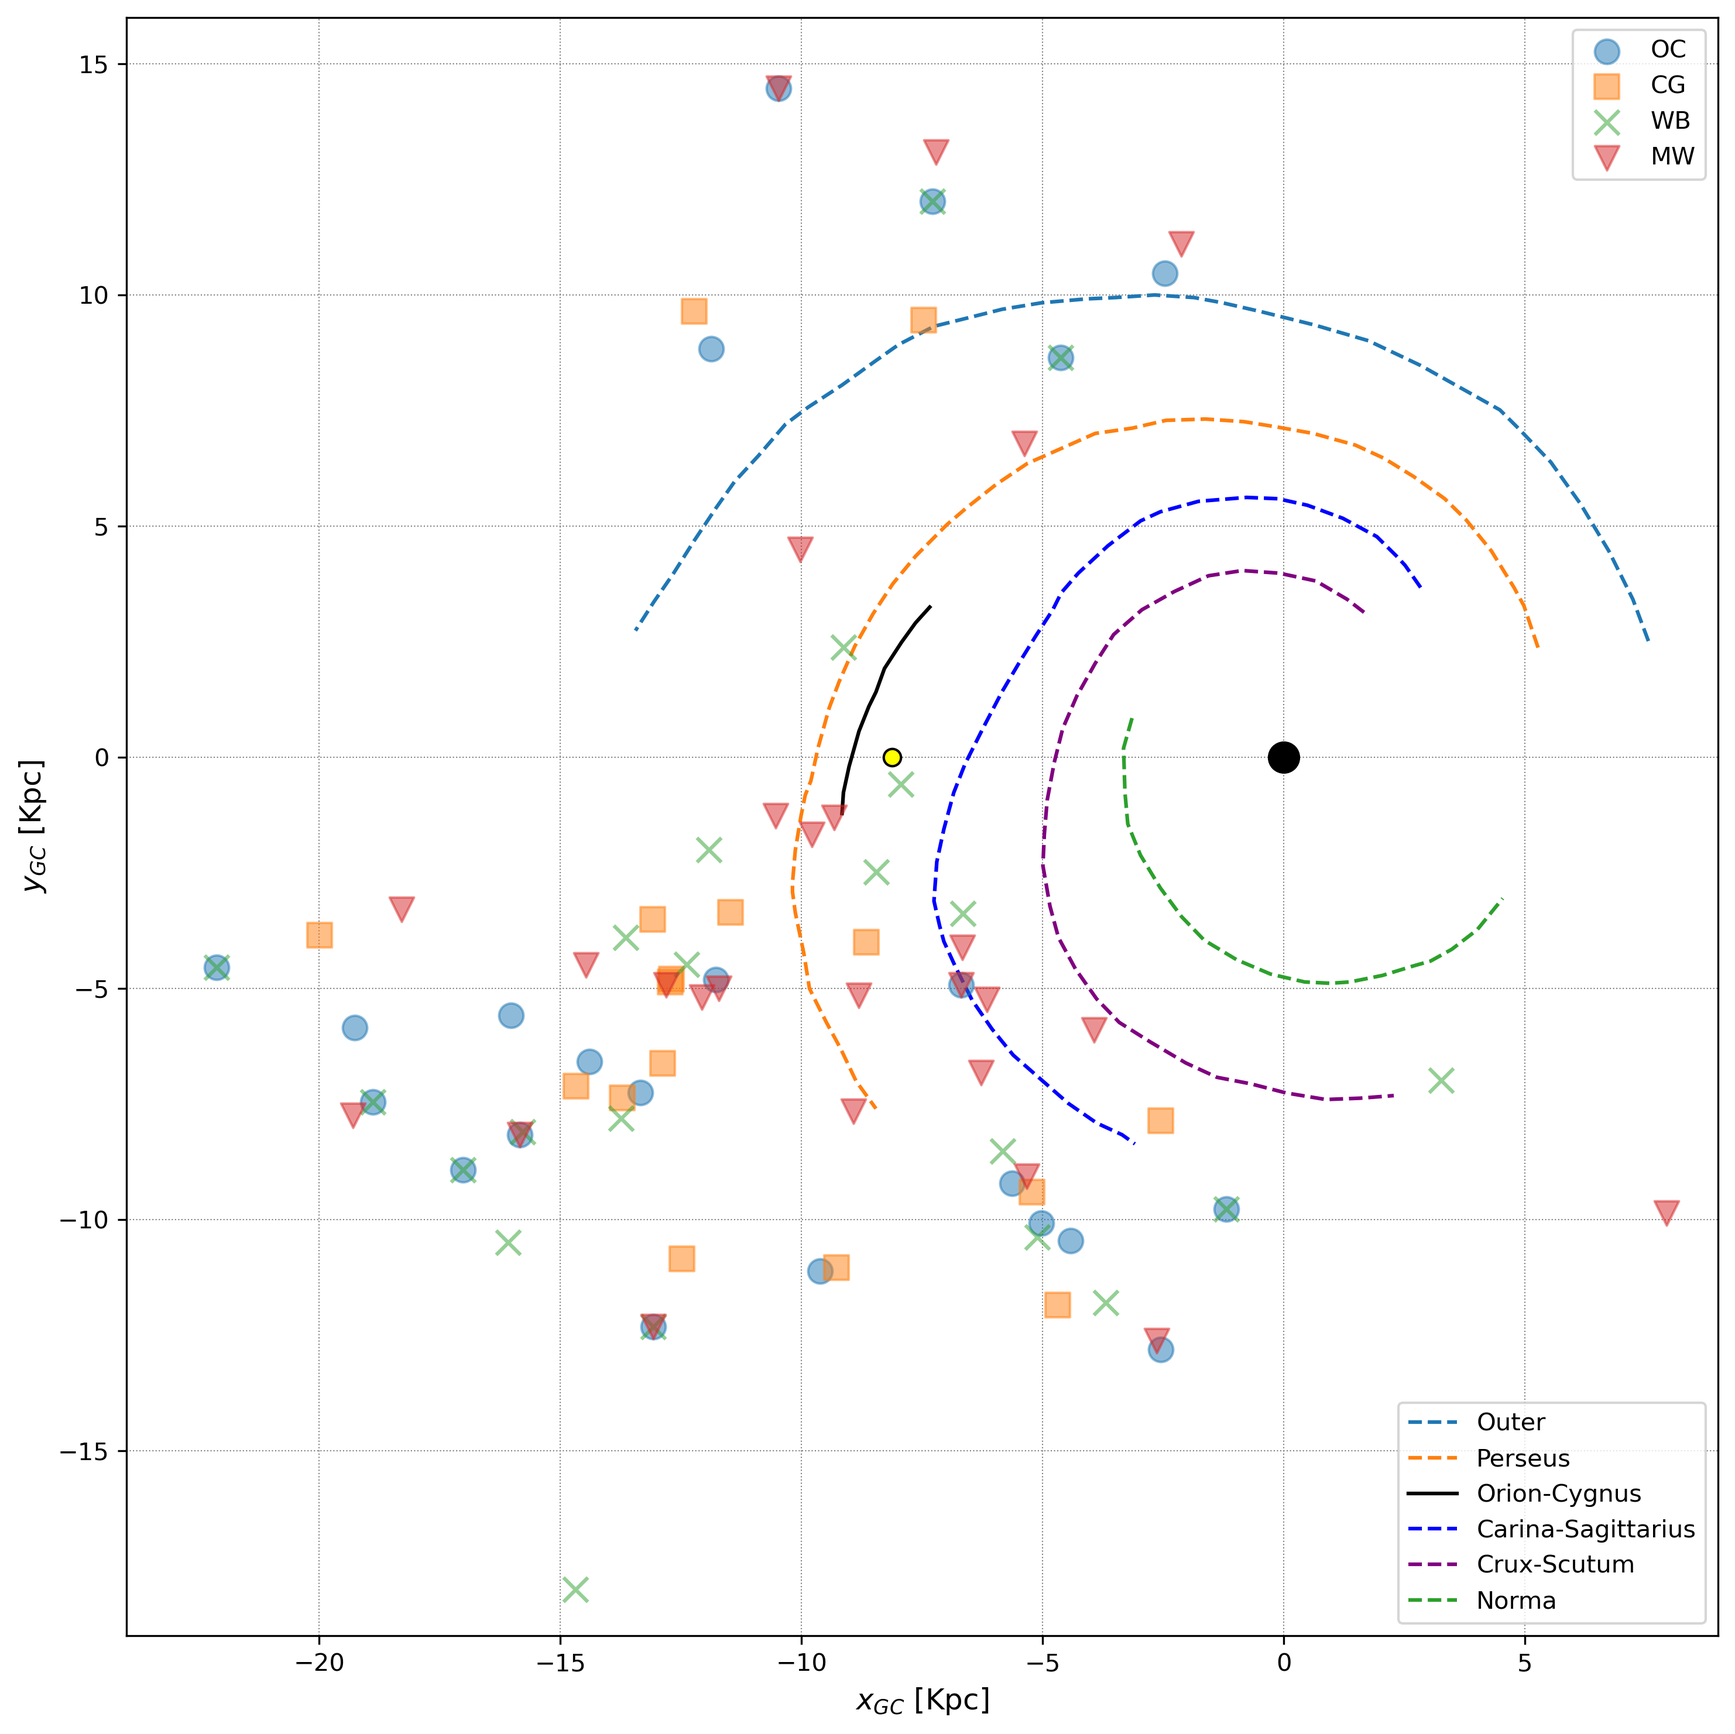
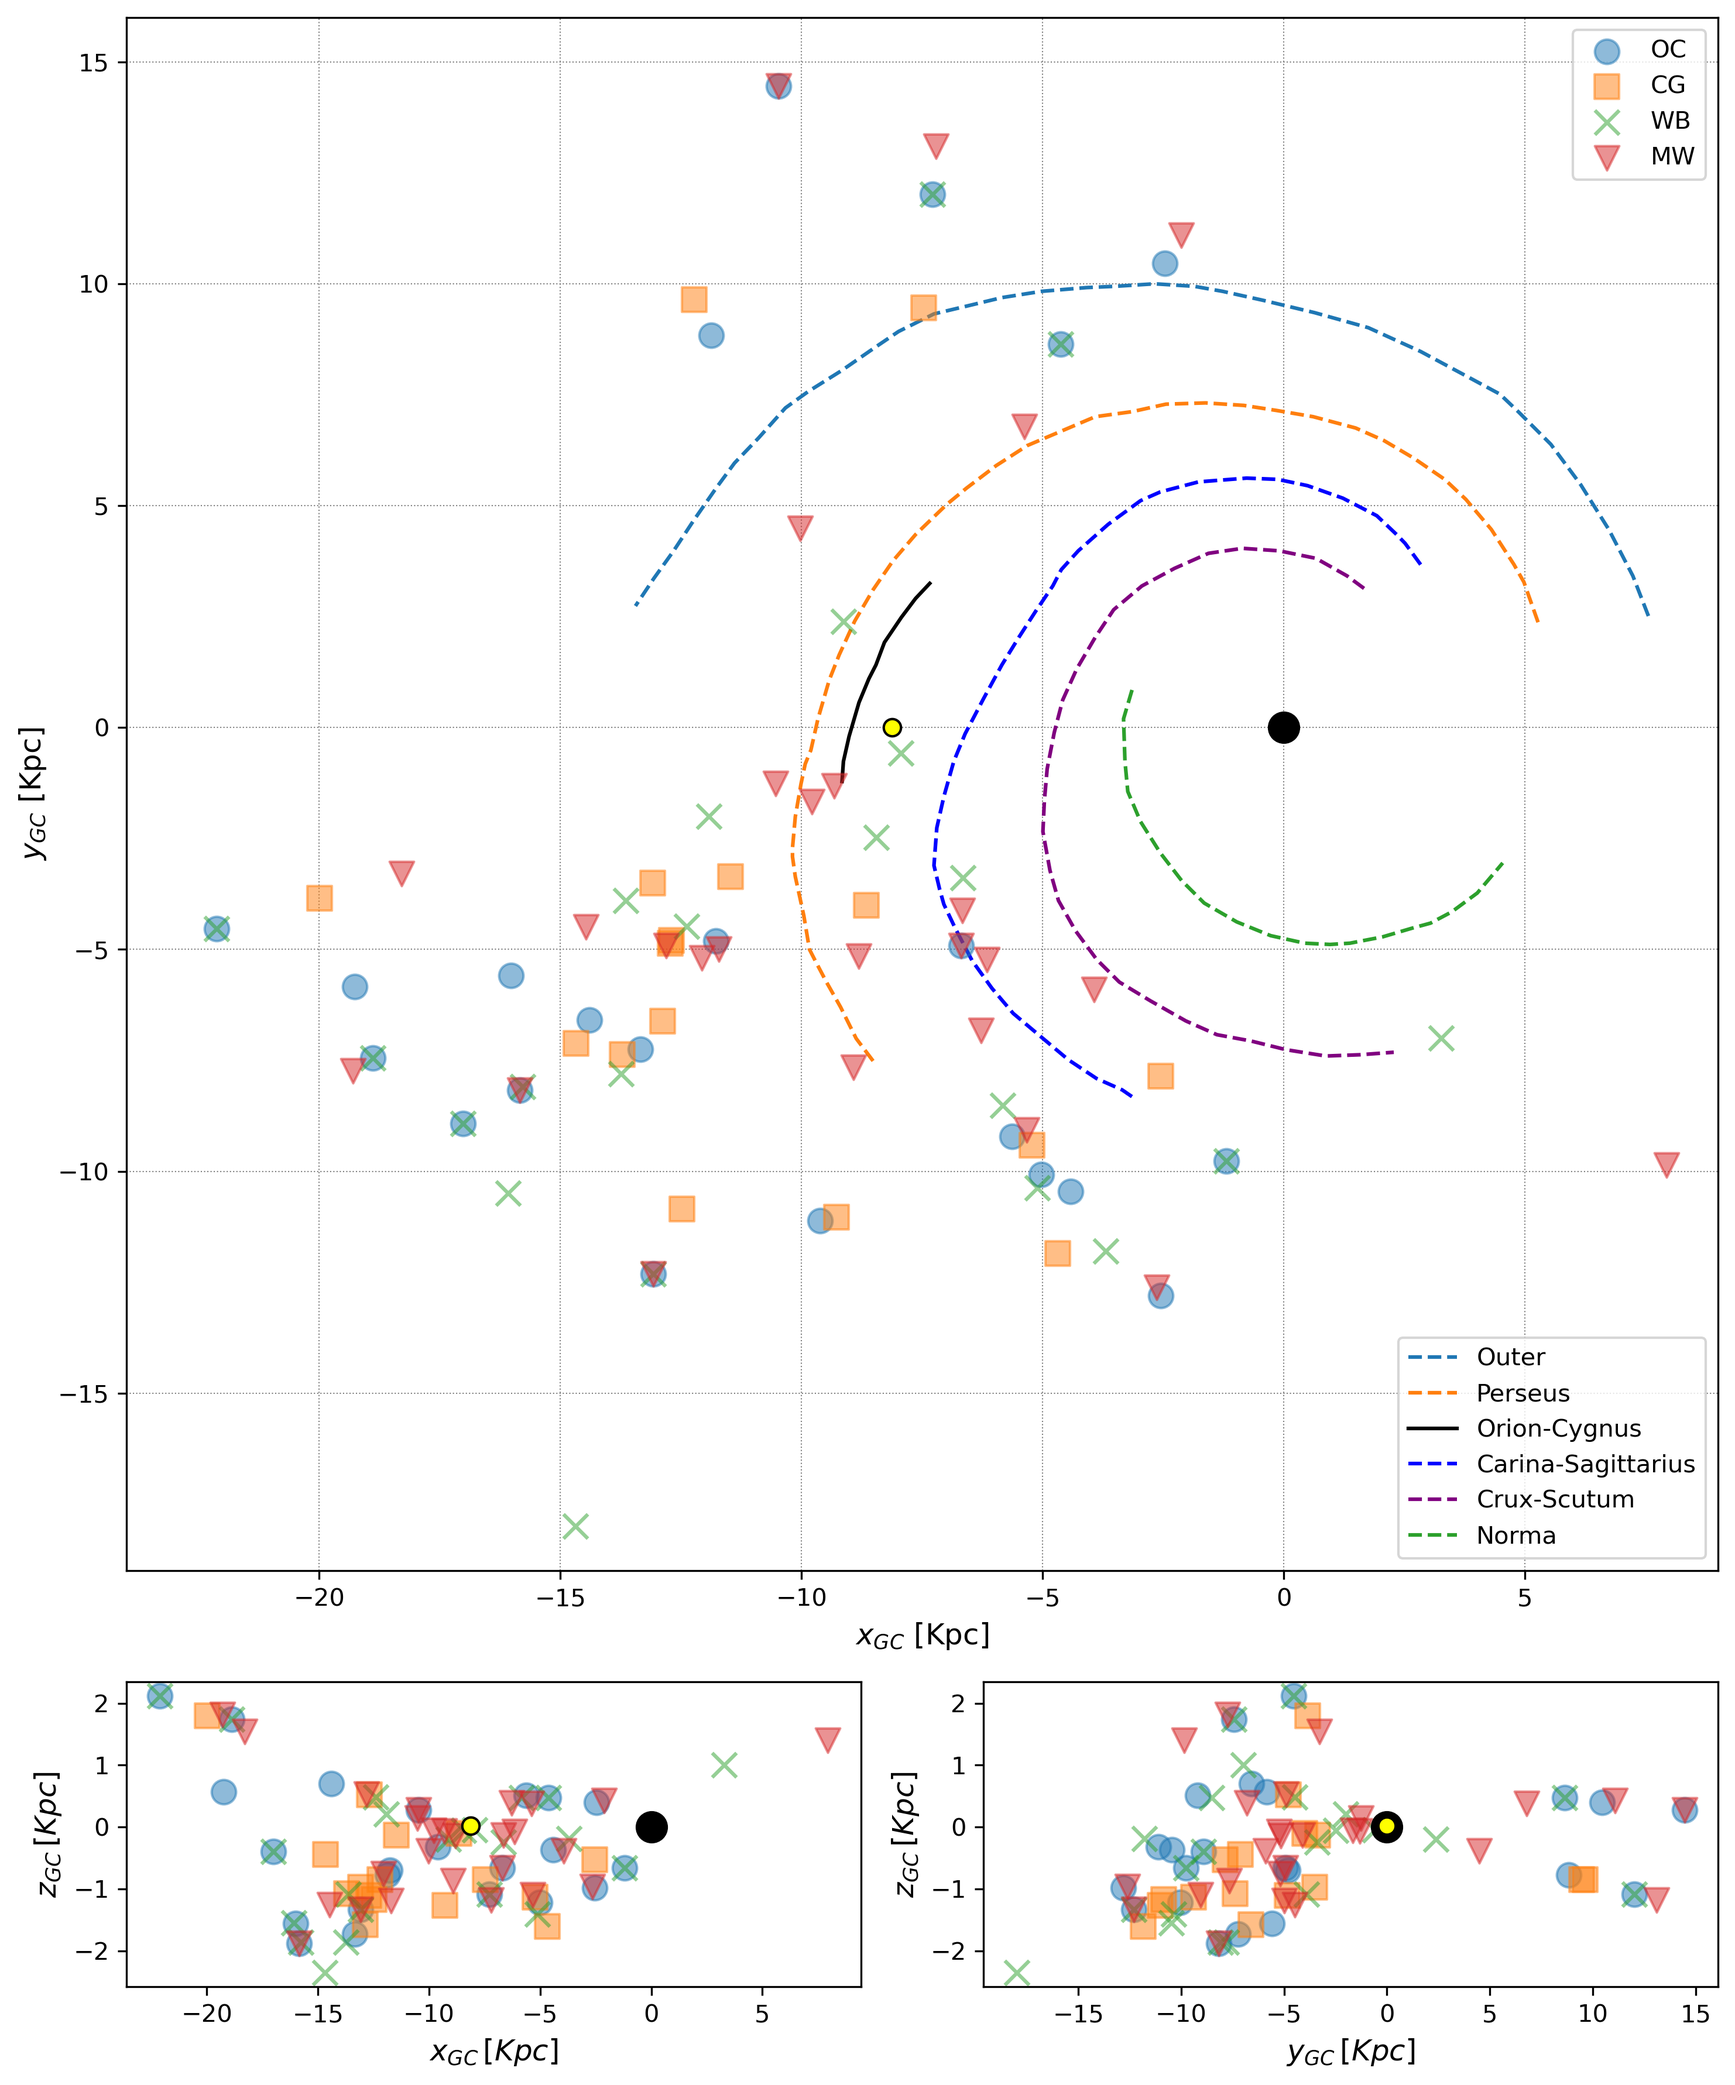
add figs + updt

diff --git a/perren_et_al.tex b/perren_et_al.tex
@@ -207,7 +207,8 @@ located more than a few Kpc away.}
  \caption{Selected catalogued open clusters with a distance $\geq$9000 pc,
  ordered by right ascension. The ages are expressed as the logarithm, and the
  distances are in parsec. In parenthesis, the short names used for the clusters
- throughout the article.}
+ throughout the article. Clusters with no distances below the 9000 pc limit in
+ any of the catalogs are marked with boldface.}
  \label{tab:clusters}
  \centering
  % \begin{tabular}{lcccccccccc}
@@ -224,7 +225,7 @@ located more than a few Kpc away.}
  & 9.48  & 9800  & 9.3   & 6273  \\
  Berkeley  26 (BER26)     & 102.58 & 5.75      & 9.6   & 12589 & -   & -   & 9.6
  & 4300  & 8.71  & 2724  \\
- Berkeley  29 (BER29)     & 103.27 & 16.93     & 9.025 & 14871 & 9.49  & 12604 &
+ Berkeley  29 (\textbf{BER29})     & 103.27 & 16.93     & 9.025 & 14871 & 9.49  & 12604 &
  9.025 & 14871 & 9.1   & 10797 \\
  Tombaugh 2 (TOMB2)     & 105.77 & -20.82    & 9.01  & 6080  & 9.21  & 9316  &
  9.01 & 13260 & 9.01  & 6565  \\
@@ -232,13 +233,13 @@ located more than a few Kpc away.}
  9.18 & 12600 & 8.87  & 2360  \\
  FSR 1212 (F1212)   & 106.94 & -14.15    & -   & -   & 9.14  & 9682  & -   & -
  & 8.65  & 1780  \\
- Saurer 1 (SAU1)   & 110.23 & 1.81      & 9.7   & 13200 & -   & -   & 9.85  &
+ Saurer 1 (\textbf{SAU1})   & 110.23 & 1.81      & 9.7   & 13200 & -   & -   & 9.85  &
  13200 & 9.6   & 13719 \\
  Czernik 30 (CZER30)    & 112.83 & -9.97     & 9.4   & 9120  & 9.46  & 6647  &
  9.4 & 6200  & 9.2   & 6812  \\
- Arp-Madore 2 (ARPM2)     & 114.69 & -33.84    & 9.335 & 13341 & 9.48  & 11751 &
+ Arp-Madore 2 (\textbf{ARPM2})     & 114.69 & -33.84    & 9.335 & 13341 & 9.48  & 11751 &
  9.335 & 13341 & 9.335 & 13338 \\
- vd Bergh-Hagen 4 (BH4)     & 114.43 & -36.07    & -   & -   & -   & -  
+ vd Bergh-Hagen 4 (\textbf{BH4})     & 114.43 & -36.07    & -   & -   & -   & -  
  & 8.3   & 19300 & -   & -   \\
  FSR 1419 (F1419)   & 124.71 & -47.79    & -   & -   & 9.21  & 11165 & -   & -   & 8.375 & 7746  \\
  vd Bergh-Hagen 37 (BH37)    & 128.95 & -43.62    & 8.84  & 11220 & 8.24 
@@ -257,11 +258,11 @@ located more than a few Kpc away.}
  & 9649  & 8.9   & 12000 & 9     & 7241  \\
  vd Bergh-Hagen 176 (BH176)   & 234.85 & -50.05    & -   & -   & -   & - 
  & -   & 13400 & 9.8   & 18887 \\
- Kronberger 31 (KRON31)    & 295.05 & 26.26     & -   & 11900 & -   & -   & -   &
+ Kronberger 31 (\textbf{KRON31})    & 295.05 & 26.26     & -   & 11900 & -   & -   & -   &
  -   & 8.5   & 12617 \\
  Saurer 6 (SAU6)   & 297.76 & 32.24     & 9.29  & 9330  & -   & -   & 9.29  &
  9330 & 9.2   & 7329  \\
- Berkeley 56 (BER56)     & 319.43 & 41.83     & 9.6   & 12100 & 9.47  & 9516  &
+ Berkeley 56 (\textbf{BER56})     & 319.43 & 41.83     & 9.6   & 12100 & 9.47  & 9516  &
  9.6 & 12100 & 9.4   & 13180 \\
  Berkeley 102 (BER102)    & 354.66 & 56.64     & 9.5   & 9638  & 9.59  & 10519 &
  8.78  & 2600  & 9.14  & 4900 \\
@@ -338,10 +339,11 @@ located more than a few Kpc away.}
 
  \begin{figure*}
   \resizebox{\hsize}{!}{\includegraphics[]{figs/MWmap.png}}
-  \caption{Position of the twenty-five clusters selected from the four catalogs
-  mentioned in the text, on a face-on view of the Milky Way. The Sun and the
-  center of the Galaxy are marked with a yellow filled circle and a black
-  filled circle, respectively.}
+  \caption{Top: position of the twenty-five clusters selected from the four
+  catalogs mentioned in the text, on a face-on view of the Milky Way. The Sun
+  and the center of the Galaxy are marked with a yellow filled circle and a
+  black filled circle, respectively. Bottom: edge-on views, same color and
+  marker conventions as above.}
   \label{fig:MWmap}
  \end{figure*}
 
@@ -353,7 +355,57 @@ located more than a few Kpc away.}
 \section{Cluster analysis}
  \label{sec:clust_analy}
 
- xxxxx
+  \begin{table}
+  \caption{xxx}
+  \label{tab:clusters}
+  \centering
+  % \begin{tabular}{lcccccccccc}
+  \begin{tabular}{lllllllllll}
+  \hline\hline
+  Cluster & radius  & $r_{c}$  &  $r_{t}$\\
+  \hline
+   ARPM2  & 3    & 1.38 & 4.01\\
+   BER102 & 2.5  & 0.98 & 4.39\\
+   BER25  & 5    & 1.48 & 7.03\\
+   BER26  & 1.6  & 0.70 & 3.78\\
+   BER29  & 2    & 0.50 & 5.42\\
+   BER56  & 4.5  & 1.58 & 7.99\\
+   BER73  & 2    & 0.57 & 4.83\\
+   BER75  & 2    & 0.40 & 5.07\\
+   BER76  & 4    & 1.65 & 7.77\\
+   CZER30 & 2.5  & 0.57 & 6.22\\
+   E09205 & 3    & 1.07 & 4.24\\
+   E09218 & 3    & 0.60 & 6.76\\
+   E09308 & 1.5  & 0.21 & 5.05\\
+   F1212  & 3    & 0.86 & 9.20\\
+   F1419  & 3    & 1.31 & 5.05\\
+   KRON31 & 2    & 0.46 & 6.69\\
+   KRON39 & 2    & 0.27 & 5.52\\
+   SAU1   & 2    & 0.70 & 3.98\\
+   SAU3   & 2    & 0.49 & 4.94\\
+   SAU6   & 2    & 0.56 & 3.76\\
+   TOMB2  & 3.5  & 0.86 & 6.72\\
+   BH144  & 1.5  & 0.33 & 2.63\\
+   BH176  & 2    & 0.60 & 4.57\\
+   BH37   & 2    & 1.17 & 4.10\\
+   BH4    & 2    & 0.40 & 6.07\\
+  \hline
+  \end{tabular}
+  \end{table}
+
+  \begin{figure}
+  \centering
+   \includegraphics[width=\hsize]{figs/ber29_A23.png}
+   \caption{xxx}
+   \label{fig:BER29_centrad}
+  \end{figure}
+
+  \begin{figure}
+  \centering
+   \includegraphics[width=\hsize]{figs/BER29_membs.png}
+   \caption{xxx}
+   \label{fig:BER29_membs}
+  \end{figure}
 
 
 
